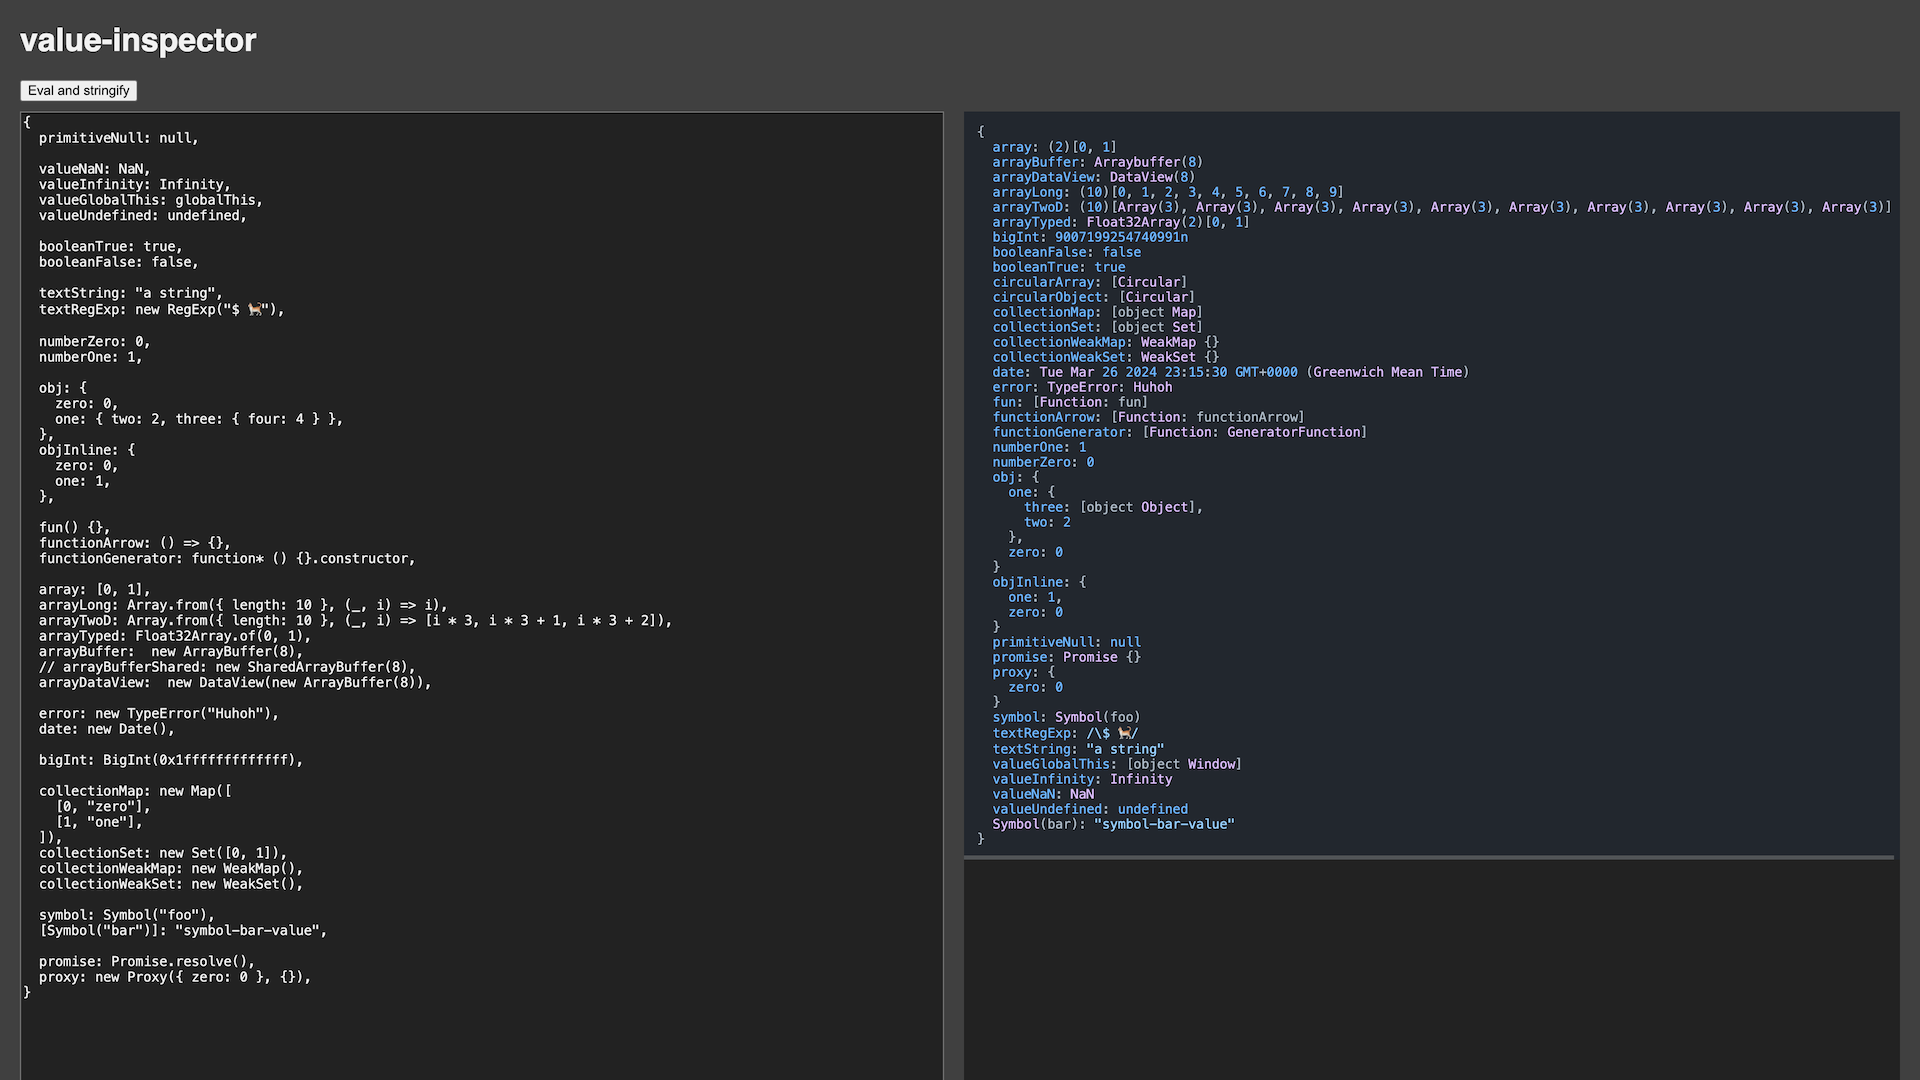
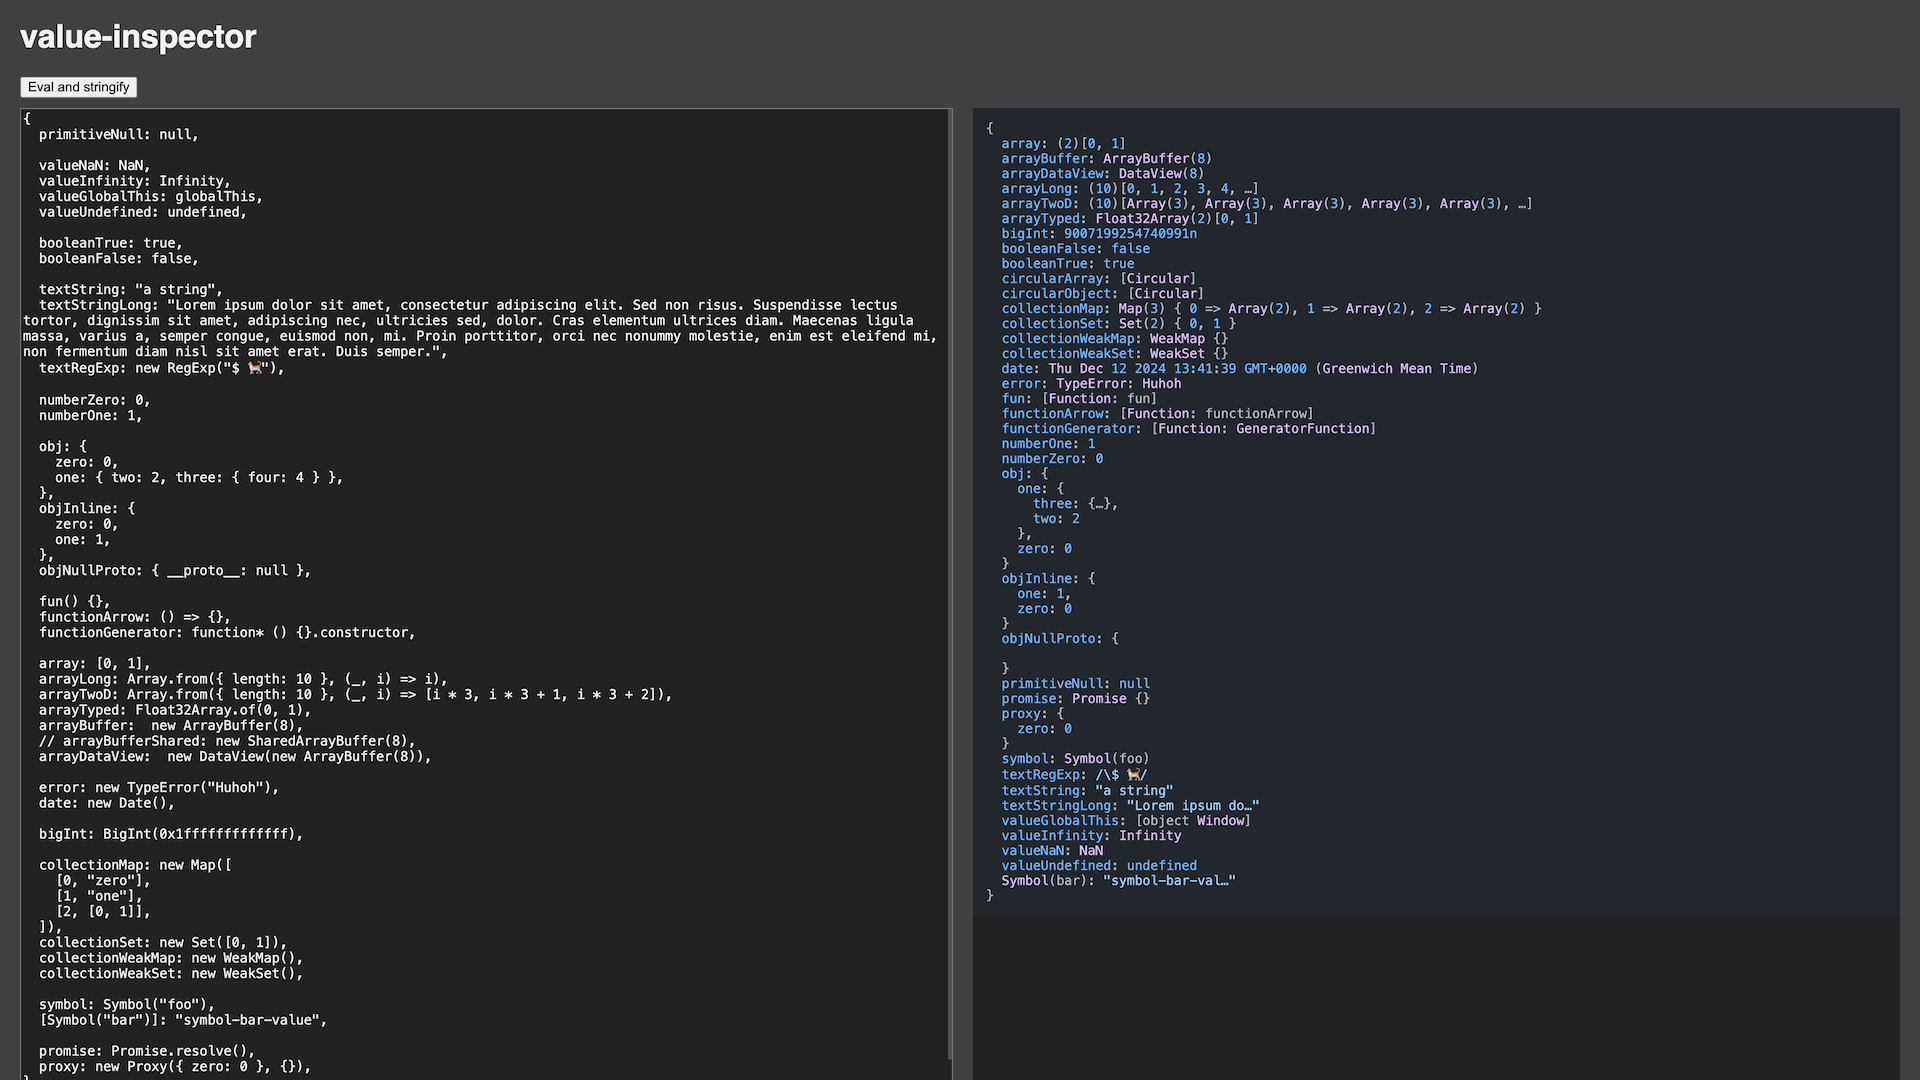
feat: handle Map and Set

Changed region(s): [[0.0, 0.0, 1.0, 1.0]]

diff --git a/index.js b/index.js
@@ -1,14 +1,18 @@
 import escapeStringRegexp from "escape-string-regexp";
 
-const objectPrototypeString = "[object Object]";
+const OBJECT_TYPES = ["WeakMap", "WeakSet", "Promise"];
+const STRUCTURED_TYPES = ["ArrayBuffer", "DataView"];
+const getPrototypeString = (type) => `[object ${type}]`;
+
 const TAB = "  ";
 const ELLIPSIS = "…";
 const indent = (string, count) =>
   string.replace(/^(?!\s*$)/gm, TAB.repeat(count));
+
 const truncate = (string, len) =>
   string.length > len ? `${string.substring(0, len)}${ELLIPSIS}` : string;
 const truncateArray = (array, len) =>
-  array.length > len ? array.slice(0, len).concat(ELLIPSIS) : array;
+  array.length > len ? [...array.slice(0, len), ELLIPSIS] : array;
 
 const isArrayLike = (value) =>
   Array.isArray(value) ||
@@ -34,13 +38,33 @@ ${truncateArray(
   .join(options.level > 1 ? `,\n${TAB}` : `\n`)}
 }`;
 
-const formatArrayType = ({ constructor, length }, showPrototype = false) =>
-  `${constructor.name === "Array" && !showPrototype ? "" : constructor.name}(${length})`;
+const formatCollectionType = (
+  { constructor, length, size },
+  showPrototype = false,
+) =>
+  `${constructor.name === "Array" && !showPrototype ? "" : constructor.name}(${length ?? size})`;
 
 const formatArray = (value, options) =>
-  `${formatArrayType(value)}[${truncateArray(value, options.arrayLength)
+  `${formatCollectionType(value)}[${truncateArray(
+    value,
+    options.collectionLength,
+  )
     .map((v) => format(v, options))
     .join(`, `)}]`;
+
+const formatIterable = (value, options, showKey) =>
+  `${formatCollectionType(value)} { ${truncateArray(
+    [...value],
+    options.collectionLength,
+  )
+    .map((v, i) =>
+      showKey
+        ? v === ELLIPSIS
+          ? ELLIPSIS
+          : `${i} => ${format(v, options)}`
+        : format(v, options),
+    )
+    .join(`, `)} }`;
 
 const format = (value, options) => {
   // Primitives
@@ -66,26 +90,47 @@ const format = (value, options) => {
     if (options.level < options.depth) {
       return formatArray(value, { ...options, level: options.level + 1 });
     }
-    return formatArrayType(value, true);
+    return formatCollectionType(value, true);
   }
 
-  // Objects
   const s = Object.prototype.toString.call(value);
-  if (s === objectPrototypeString) {
+
+  // Objects
+  if (s === getPrototypeString("Object")) {
     if (options.level > options.depth) return `{${ELLIPSIS}}`;
 
     if (options.circularRefs.has(value)) return `[Circular]`;
     options.circularRefs.add(value);
     return formatObject(value, { ...options, level: options.level + 1 });
   }
-  if (s === "[object WeakMap]") return "WeakMap {}";
-  if (s === "[object WeakSet]") return "WeakSet {}";
-  if (s === "[object RegExp]") return escapeStringRegexp(String(value));
-  if (s === "[object ArrayBuffer]") return `Arraybuffer(${value.byteLength})`;
-  if (s === "[object DataView]") return `DataView(${value.byteLength})`;
-  if (s === "[object Promise]") return `Promise {}`;
 
-  // Date, Error, Map, Set, Symbol
+  // Keyed collections
+  const isMap = s === getPrototypeString("Map");
+  if (isMap || s === getPrototypeString("Set")) {
+    if (options.level > options.depth) return formatCollectionType(value, true);
+
+    if (options.circularRefs.has(value)) return `[Circular]`;
+    options.circularRefs.add(value);
+    return formatIterable(
+      value,
+      { ...options, level: options.level + 1 },
+      isMap,
+    );
+  }
+
+  for (let i = 0; i < OBJECT_TYPES.length; i++) {
+    const type = OBJECT_TYPES[i];
+    if (s === getPrototypeString(type)) return `${type} {}`;
+  }
+  for (let i = 0; i < STRUCTURED_TYPES.length; i++) {
+    const type = STRUCTURED_TYPES[i];
+    if (s === getPrototypeString(type)) return `${type}(${value.byteLength})`;
+  }
+
+  if (s === getPrototypeString("RegExp"))
+    return escapeStringRegexp(String(value));
+
+  // Date, Error, Symbol
   return value?.toString?.() || s;
 };
 
@@ -93,7 +138,7 @@ const format = (value, options) => {
  * @typedef {object} Options
  * @property {number} [depth=2] Specify levels to expand arrays and objects.
  * @property {number} [stringLength=Number.POSITIVE_INFINITY] Length to truncate strings.
- * @property {number} [arrayLength=Number.POSITIVE_INFINITY] Length to slice arrays.
+ * @property {number} [collectionLength=Number.POSITIVE_INFINITY] Length to slice arrays.
  * @property {number} [objectLength=Number.POSITIVE_INFINITY] Length to truncate object keys.
  */
 
@@ -107,7 +152,7 @@ const inspect = (value, options = {}) =>
   format(value, {
     depth: 2,
     stringLength: Number.POSITIVE_INFINITY,
-    arrayLength: Number.POSITIVE_INFINITY,
+    collectionLength: Number.POSITIVE_INFINITY,
     objectLength: Number.POSITIVE_INFINITY,
     level: 0,
     circularRefs: new WeakSet(),

diff --git a/index.html b/index.html
@@ -83,6 +83,7 @@
     zero: 0,
     one: 1,
   },
+  objNullProto: { __proto__: null },
 
   fun() {},
   functionArrow: () => {},
@@ -104,6 +105,7 @@
   collectionMap: new Map([
     [0, "zero"],
     [1, "one"],
+    [2, [0, 1]],
   ]),
   collectionSet: new Set([0, 1]),
   collectionWeakMap: new WeakMap(),
@@ -142,7 +144,7 @@
         const code = inspect(value, {
           depth: 2,
           stringLength: 14,
-          arrayLength: 5,
+          collectionLength: 5,
         });
 
         console.log(code);
